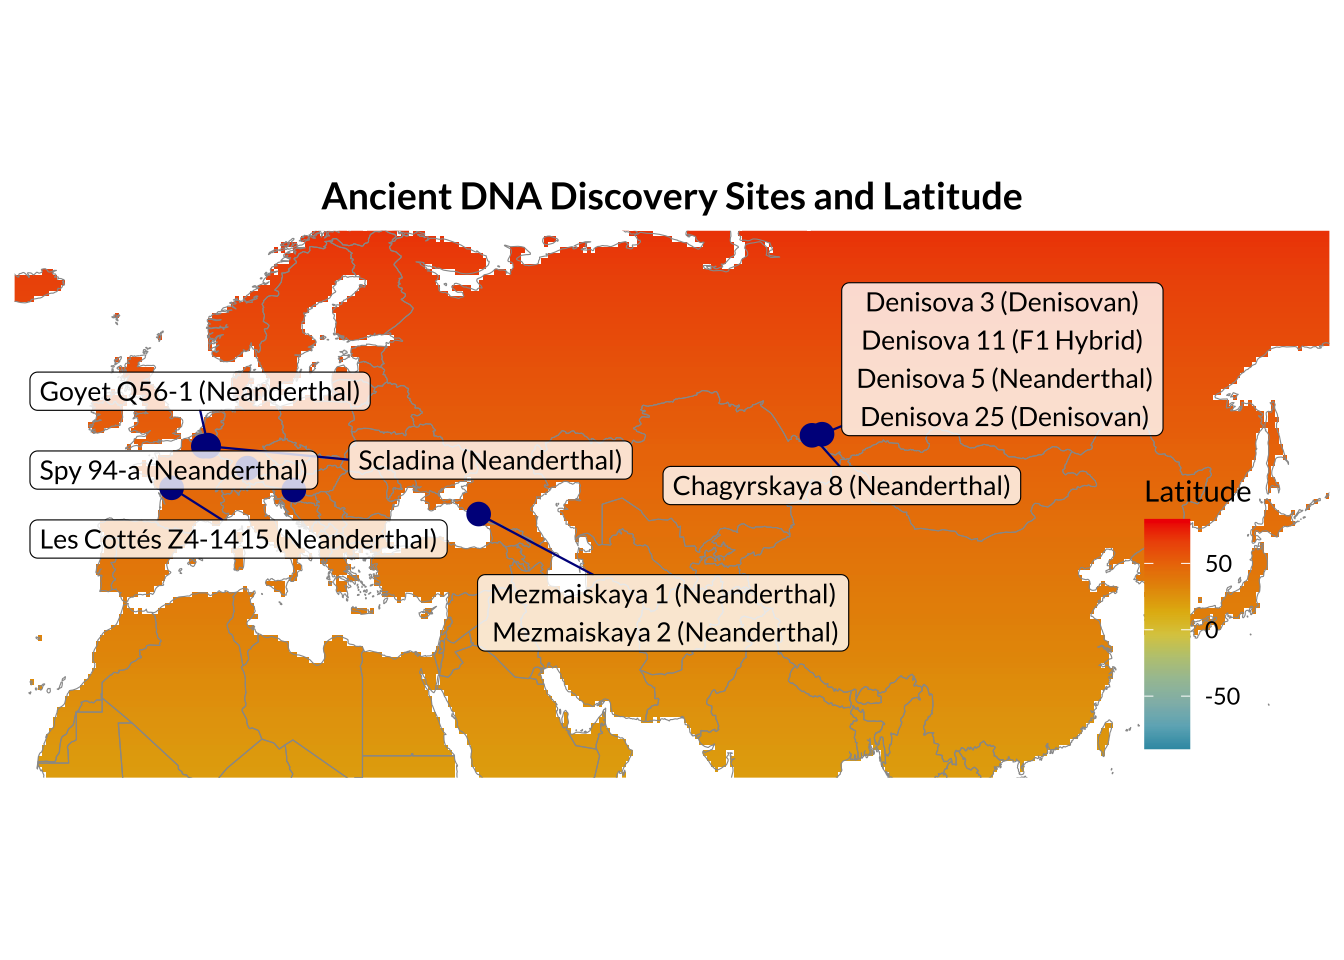
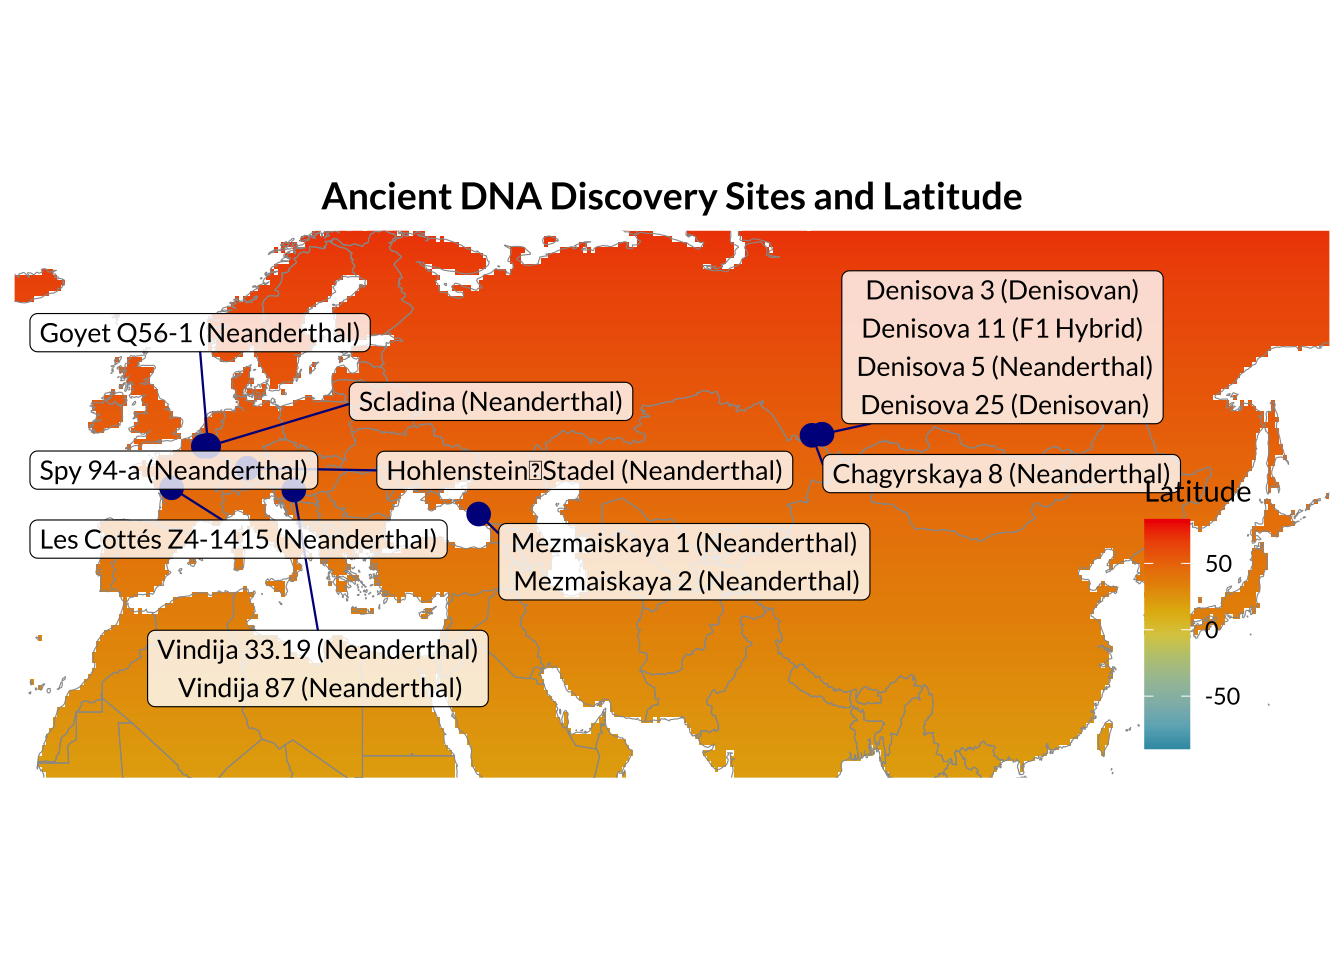
Build site.

Changed region(s): [[0.0312, 0.2812, 0.875, 0.75]]

diff --git a/docs/introduction.html b/docs/introduction.html
@@ -526,15 +526,15 @@ project makes it easier to run your code on other machines.</p>
 <div class="panel panel-default">
 <div class="panel-heading">
 <p class="panel-title">
-<a data-toggle="collapse" data-parent="#workflowr-checks" href="#strongRepositoryversionstrongahrefhttpsgithubcomlilyhealdPAINTtree6d227c0120c7e37b1137de507a7beaef99cdf4a5targetblank6d227c0a">
+<a data-toggle="collapse" data-parent="#workflowr-checks" href="#strongRepositoryversionstrongahrefhttpsgithubcomlilyhealdPAINTtreea9a78d1ea783943c40e7b256e53c83d4ef106902targetblanka9a78d1a">
 <span class="glyphicon glyphicon-ok text-success"
 aria-hidden="true"></span> <strong>Repository version:</strong>
-<a href="https://github.com/lilyheald/PAINT/tree/6d227c0120c7e37b1137de507a7beaef99cdf4a5" target="_blank">6d227c0</a>
+<a href="https://github.com/lilyheald/PAINT/tree/a9a78d1ea783943c40e7b256e53c83d4ef106902" target="_blank">a9a78d1</a>
 </a>
 </p>
 </div>
 <div
[2 lines of base64/hex data omitted]
 class="panel-collapse collapse">
 <div class="panel-body">
 <p>
@@ -544,7 +544,7 @@ reproducibility.
 </p>
 <p>
 The results in this page were generated with repository version
-<a href="https://github.com/lilyheald/PAINT/tree/6d227c0120c7e37b1137de507a7beaef99cdf4a5" target="_blank">6d227c0</a>.
+<a href="https://github.com/lilyheald/PAINT/tree/a9a78d1ea783943c40e7b256e53c83d4ef106902" target="_blank">a9a78d1</a>.
 See the <em>Past versions</em> tab to see a history of the changes made
 to the R Markdown and HTML files.
 </p>
@@ -683,6 +683,40 @@ Message
 </tr>
 </thead>
 <tbody>
+<tr>
+<td>
+Rmd
+</td>
+<td>
+<a href="https://github.com/lilyheald/PAINT/blob/a9a78d1ea783943c40e7b256e53c83d4ef106902/analysis/introduction.Rmd" target="_blank">a9a78d1</a>
+</td>
+<td>
+Lily Heald
+</td>
+<td>
+2026-04-16
+</td>
+<td>
+Update map
+</td>
+</tr>
+<tr>
+<td>
+html
+</td>
+<td>
+<a href="https://rawcdn.githack.com/lilyheald/PAINT/04d09514e3ad44664e92a62e5d98761cdb256fb1/docs/introduction.html" target="_blank">04d0951</a>
+</td>
+<td>
+Lily Heald
+</td>
+<td>
+2026-04-16
+</td>
+<td>
+Build site.
+</td>
+</tr>
 <tr>
 <td>
 Rmd
@@ -2069,6 +2103,17 @@ Date
 </tr>
 </thead>
 <tbody>
+<tr>
+<td>
+<a href="https://github.com/lilyheald/PAINT/blob/04d09514e3ad44664e92a62e5d98761cdb256fb1/docs/figure/introduction.Rmd/plot-1.png" target="_blank">04d0951</a>
+</td>
+<td>
+Lily Heald
+</td>
+<td>
+2026-04-16
+</td>
+</tr>
 <tr>
 <td>
 <a href="https://github.com/lilyheald/PAINT/blob/0bc159a663a57b0fe38400458039cbee2ba6ac71/docs/figure/introduction.Rmd/plot-1.png" target="_blank">0bc159a</a>
